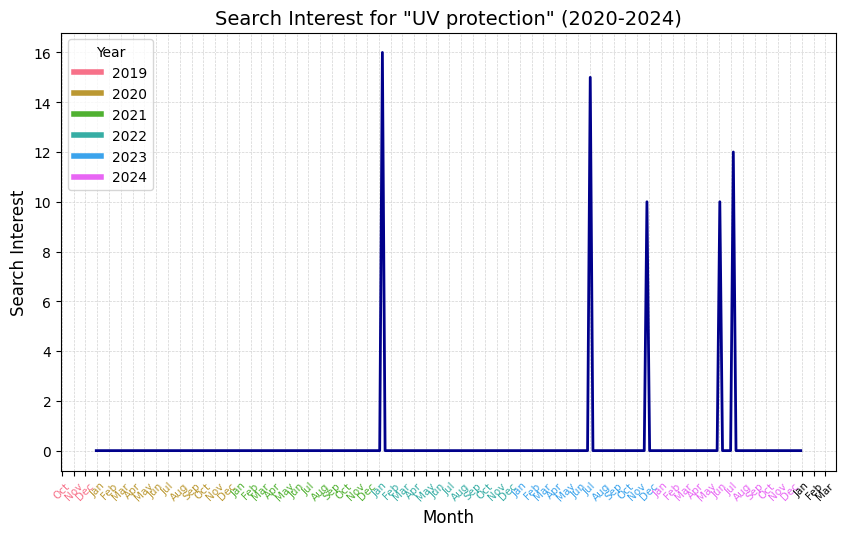
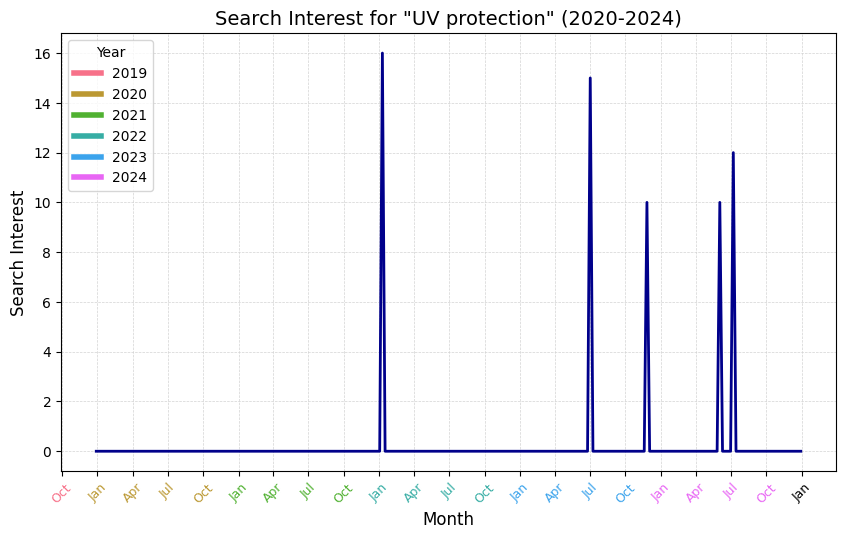
Adjusting x-axis formatting for time-series plots.

diff --git a/analytics/plot-time-series/plot_max_uv.py b/analytics/plot-time-series/plot_max_uv.py
@@ -26,7 +26,7 @@ fig, ax = plt.subplots(figsize=(10, 6))
 ax.plot(df.index, df['uvindex'], color='chocolate', linewidth=2, label='Max UV')
 
 # Format axes
-ax.xaxis.set_major_locator(mdates.MonthLocator())
+ax.xaxis.set_major_locator(mdates.MonthLocator(bymonth=[1, 4, 7, 10]))
 ax.xaxis.set_major_formatter(mdates.DateFormatter('%b')) # Only show month names
 
 # Modify tick labels to color-code them by year
@@ -38,7 +38,7 @@ for label, tick_date in zip(ax.get_xticklabels(), tick_dates):
     label.set_color(year_color_map.get(year, 'black'))  # Assign color based on year
 
 # Adjust label visibility
-plt.xticks(rotation=45, fontsize=7.5)
+plt.xticks(rotation=45, fontsize=9)
 plt.subplots_adjust(bottom=0.15)  # Avoid cutoff issues for x-axis title
 
 # Label axes, create title, and format the background of the plot

diff --git a/analytics/plot-time-series/plot_search_over_time.py b/analytics/plot-time-series/plot_search_over_time.py
@@ -34,7 +34,7 @@ def plot_trend_over_time(term):
     ax.plot(df.index, df[term], color='darkblue', linewidth=2, label=term)
 
     # Format x-axis tick mark labels
-    ax.xaxis.set_major_locator(mdates.MonthLocator())
+    ax.xaxis.set_major_locator(mdates.MonthLocator(bymonth=[1, 4, 7, 10]))
     ax.xaxis.set_major_formatter(mdates.DateFormatter('%b')) # Only show month names
 
     # Modify tick labels to color-code them by year
@@ -46,7 +46,7 @@ def plot_trend_over_time(term):
         label.set_color(year_color_map.get(year, 'black'))  # Assign color based on year
 
     # Adjust label visibility
-    plt.xticks(rotation=45, fontsize=7.5)
+    plt.xticks(rotation=45, fontsize=9)
     plt.subplots_adjust(bottom=0.15)  # Avoid cutoff issues for x-axis title
 
     # Add labels and title, adjust plot formatting

diff --git a/analytics/plot-time-series/plot_max_temps.py b/analytics/plot-time-series/plot_max_temps.py
@@ -26,7 +26,7 @@ fig, ax = plt.subplots(figsize=(10, 6))
 ax.plot(df.index, df['tempmax'], color='darkmagenta', linewidth=2, label='Max Temp')
 
 # Format x-axis to only show months
-ax.xaxis.set_major_locator(mdates.MonthLocator())
+ax.xaxis.set_major_locator(mdates.MonthLocator(bymonth=[1, 4, 7, 10]))
 ax.xaxis.set_major_formatter(mdates.DateFormatter('%b'))  # Only show month names
 
 # Modify tick labels to color-code them by year
@@ -38,7 +38,7 @@ for label, tick_date in zip(ax.get_xticklabels(), tick_dates):
     label.set_color(year_color_map.get(year, 'black'))  # Assign color based on year
 
 # Adjust label visibility
-plt.xticks(rotation=45, fontsize=7.5)
+plt.xticks(rotation=45, fontsize=9)
 plt.subplots_adjust(bottom=0.15)  # Avoid cutoff for x-axis title
 
 # Label axes, title, and background of plot
